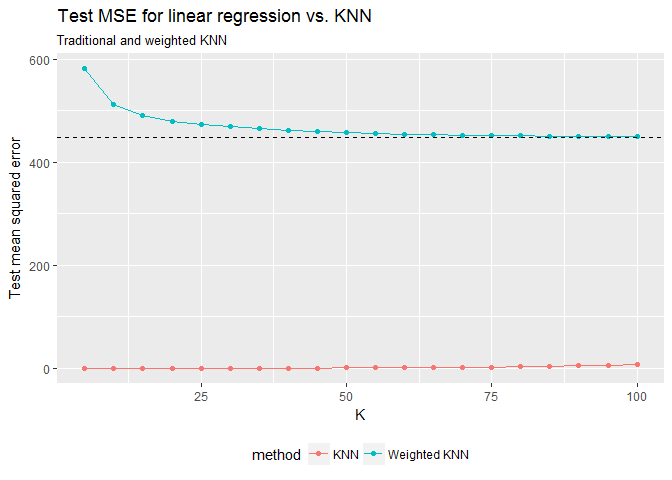
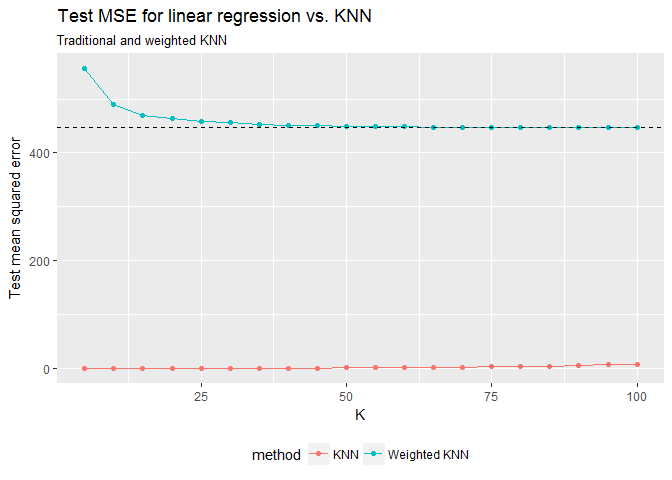
Part1, 3

diff --git a/students/banerjee_esha/PS 9/PS_9.md b/students/banerjee_esha/PS 9/PS_9.md
@@ -89,7 +89,7 @@ MSE is lowest for the model with the variables age, female, dem, rep & K = 5.
 
 ``` r
 mse_knn_w <- data_frame(k = seq(5, 100, by = 5), 
-                      wknn = map(k, ~ kknn(feminist ~ age + educ + female + income + dem + rep, train = fm_train, test = fm_test, k = .)), 
+                      wknn = map(k, ~ kknn(feminist ~ age + female  + dem + rep, train = fm_train, test = fm_test, k = .)), 
                       mse_wknn = map_dbl(wknn, ~ mean((fm_test$feminist - .$fitted.values)^2))) %>%
   left_join(mse_knn, by = "k") %>%
   mutate(mse_knn = mse)%>%
@@ -167,6 +167,7 @@ mse_rf
 
 ``` r
 set.seed(111)
+# Boosting
 feminist_models <- list("boosting_depth1" = gbm(as.numeric(feminist) - 1 ~ female + age + dem + rep,
                                                data = fm_train,
                                                n.trees = 10000, interaction.depth = 1),
@@ -217,7 +218,127 @@ predict.gbm <- function (object, newdata, n.trees, type = "link", single.tree = 
     gbm::predict.gbm(object, newdata, n.trees, type, single.tree, ...)
   }
 }
+
+fm_boost_1 = gbm(as.numeric(feminist) - 1 ~ .,
+                                               data = fm_train,
+                                               n.trees = 2352, interaction.depth = 1)
 ```
+
+    ## Distribution not specified, assuming gaussian ...
+
+``` r
+fm_boost_2 = gbm(as.numeric(feminist) - 1 ~ .,
+                                               data = fm_train,
+                                               n.trees = 1693, interaction.depth = 2)
+```
+
+    ## Distribution not specified, assuming gaussian ...
+
+``` r
+fm_boost_4 = gbm(as.numeric(feminist) - 1 ~ .,
+                                               data = fm_train,
+                                               n.trees = 1308, interaction.depth = 4)
+```
+
+    ## Distribution not specified, assuming gaussian ...
+
+``` r
+mse_1 = mse(fm_boost_1,fm_test)
+```
+
+    ## Using 2352 trees...
+
+``` r
+mse_1
+```
+
+    ## [1] 446
+
+``` r
+mse_2 = mse(fm_boost_2,fm_test)
+```
+
+    ## Using 1693 trees...
+
+``` r
+mse_2
+```
+
+    ## [1] 446
+
+``` r
+mse_4 = mse(fm_boost_4,fm_test)
+```
+
+    ## Using 1308 trees...
+
+``` r
+mse_4
+```
+
+    ## [1] 445
+
+``` r
+set.seed(111)
+
+fm_boost_1 = gbm(as.numeric(feminist) - 1 ~ .,
+                                               data = fm_train,
+                                               n.trees = 2352, interaction.depth = 1, shrinkage = 0.005)
+```
+
+    ## Distribution not specified, assuming gaussian ...
+
+``` r
+fm_boost_2 = gbm(as.numeric(feminist) - 1 ~ .,
+                                               data = fm_train,
+                                               n.trees = 1693, interaction.depth = 2, shrinkage = 0.005)
+```
+
+    ## Distribution not specified, assuming gaussian ...
+
+``` r
+fm_boost_4 = gbm(as.numeric(feminist) - 1 ~ .,
+                                               data = fm_train,
+                                               n.trees = 1308, interaction.depth = 4, shrinkage = 0.005)
+```
+
+    ## Distribution not specified, assuming gaussian ...
+
+``` r
+mse_1 = mse(fm_boost_1,fm_test)
+```
+
+    ## Using 2352 trees...
+
+``` r
+mse_1
+```
+
+    ## [1] 451
+
+``` r
+mse_2 = mse(fm_boost_2,fm_test)
+```
+
+    ## Using 1693 trees...
+
+``` r
+mse_2
+```
+
+    ## [1] 450
+
+``` r
+mse_4 = mse(fm_boost_4,fm_test)
+```
+
+    ## Using 1308 trees...
+
+``` r
+mse_4
+```
+
+    ## [1] 453
 
 Colleges
 ========
